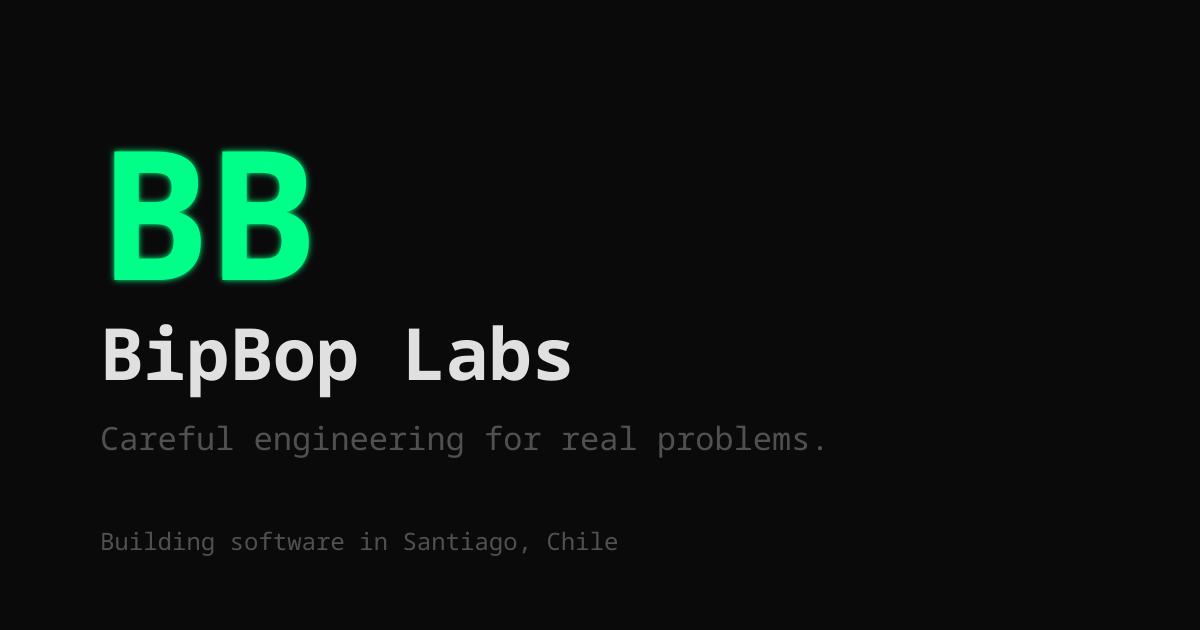
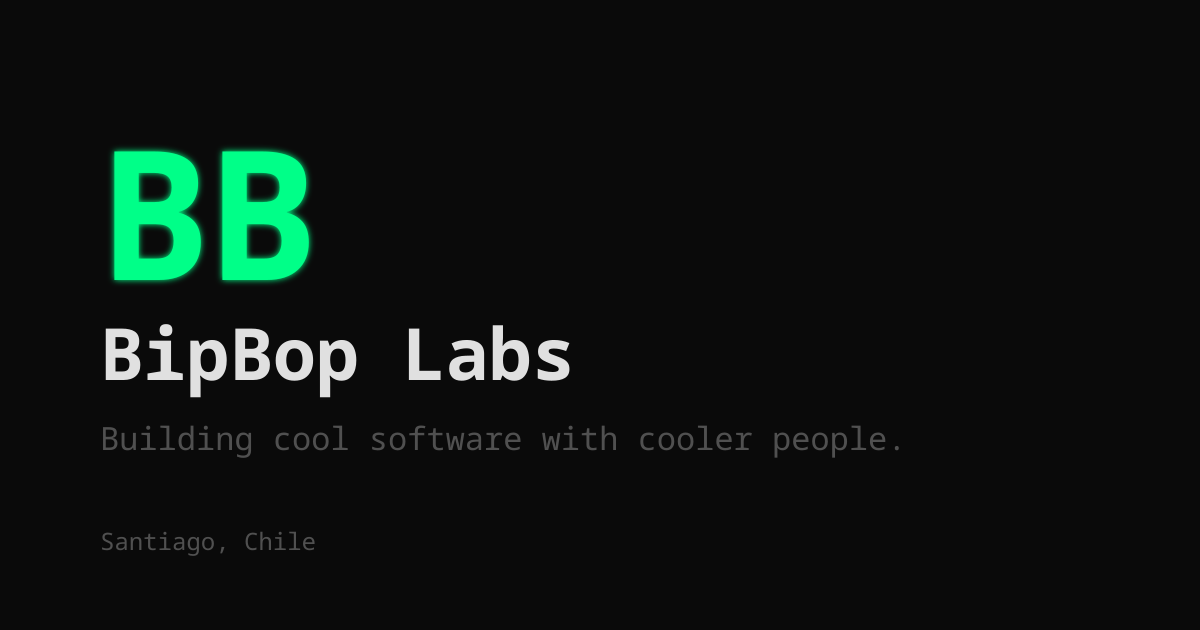
Update tagline and simplify copy
- EN: "Building cool software with cooler people."
- ES: "Creando productos bacanes con gente bacán."
- Updated meta tags and OG image

diff --git a/index.html b/index.html
@@ -4,14 +4,14 @@
   <meta charset="UTF-8">
   <meta name="viewport" content="width=device-width, initial-scale=1.0">
   <title>BipBop Labs</title>
-  <meta name="description" content="Careful engineering for real problems. Building software in Santiago, Chile.">
+  <meta name="description" content="Building cool software with cooler people.">
   <meta name="author" content="Juan Vargas">
   <meta name="theme-color" content="#0a0a0a">
 
   <!-- Open Graph -->
   <meta property="og:type" content="website">
   <meta property="og:title" content="BipBop Labs">
-  <meta property="og:description" content="Careful engineering for real problems. Building software in Santiago, Chile.">
+  <meta property="og:description" content="Building cool software with cooler people.">
   <meta property="og:url" content="https://bipbop.cl">
   <meta property="og:image" content="https://bipbop.cl/og.png">
   <meta property="og:locale" content="en_US">
@@ -20,7 +20,7 @@
   <!-- Twitter -->
   <meta name="twitter:card" content="summary_large_image">
   <meta name="twitter:title" content="BipBop Labs">
-  <meta name="twitter:description" content="Careful engineering for real problems. Building software in Santiago, Chile.">
+  <meta name="twitter:description" content="Building cool software with cooler people.">
   <meta name="twitter:image" content="https://bipbop.cl/og.png">
 
   <link rel="icon" type="image/svg+xml" href="favicon.svg">
@@ -249,12 +249,10 @@
   <div class="labs">LABS</div>
 
   <p class="tagline" data-i18n="en">
-    <strong>Software engineering.</strong><br>
-    Careful engineering for real problems.
+    <strong>Building cool software with cooler people.</strong>
   </p>
   <p class="tagline" data-i18n="es">
-    <strong>Construyendo software.</strong><br>
-    Ingeniería cuidadosa para problemas reales.
+    <strong>Creando productos bacanes con gente bacán.</strong>
   </p>
 
   <p class="author">
